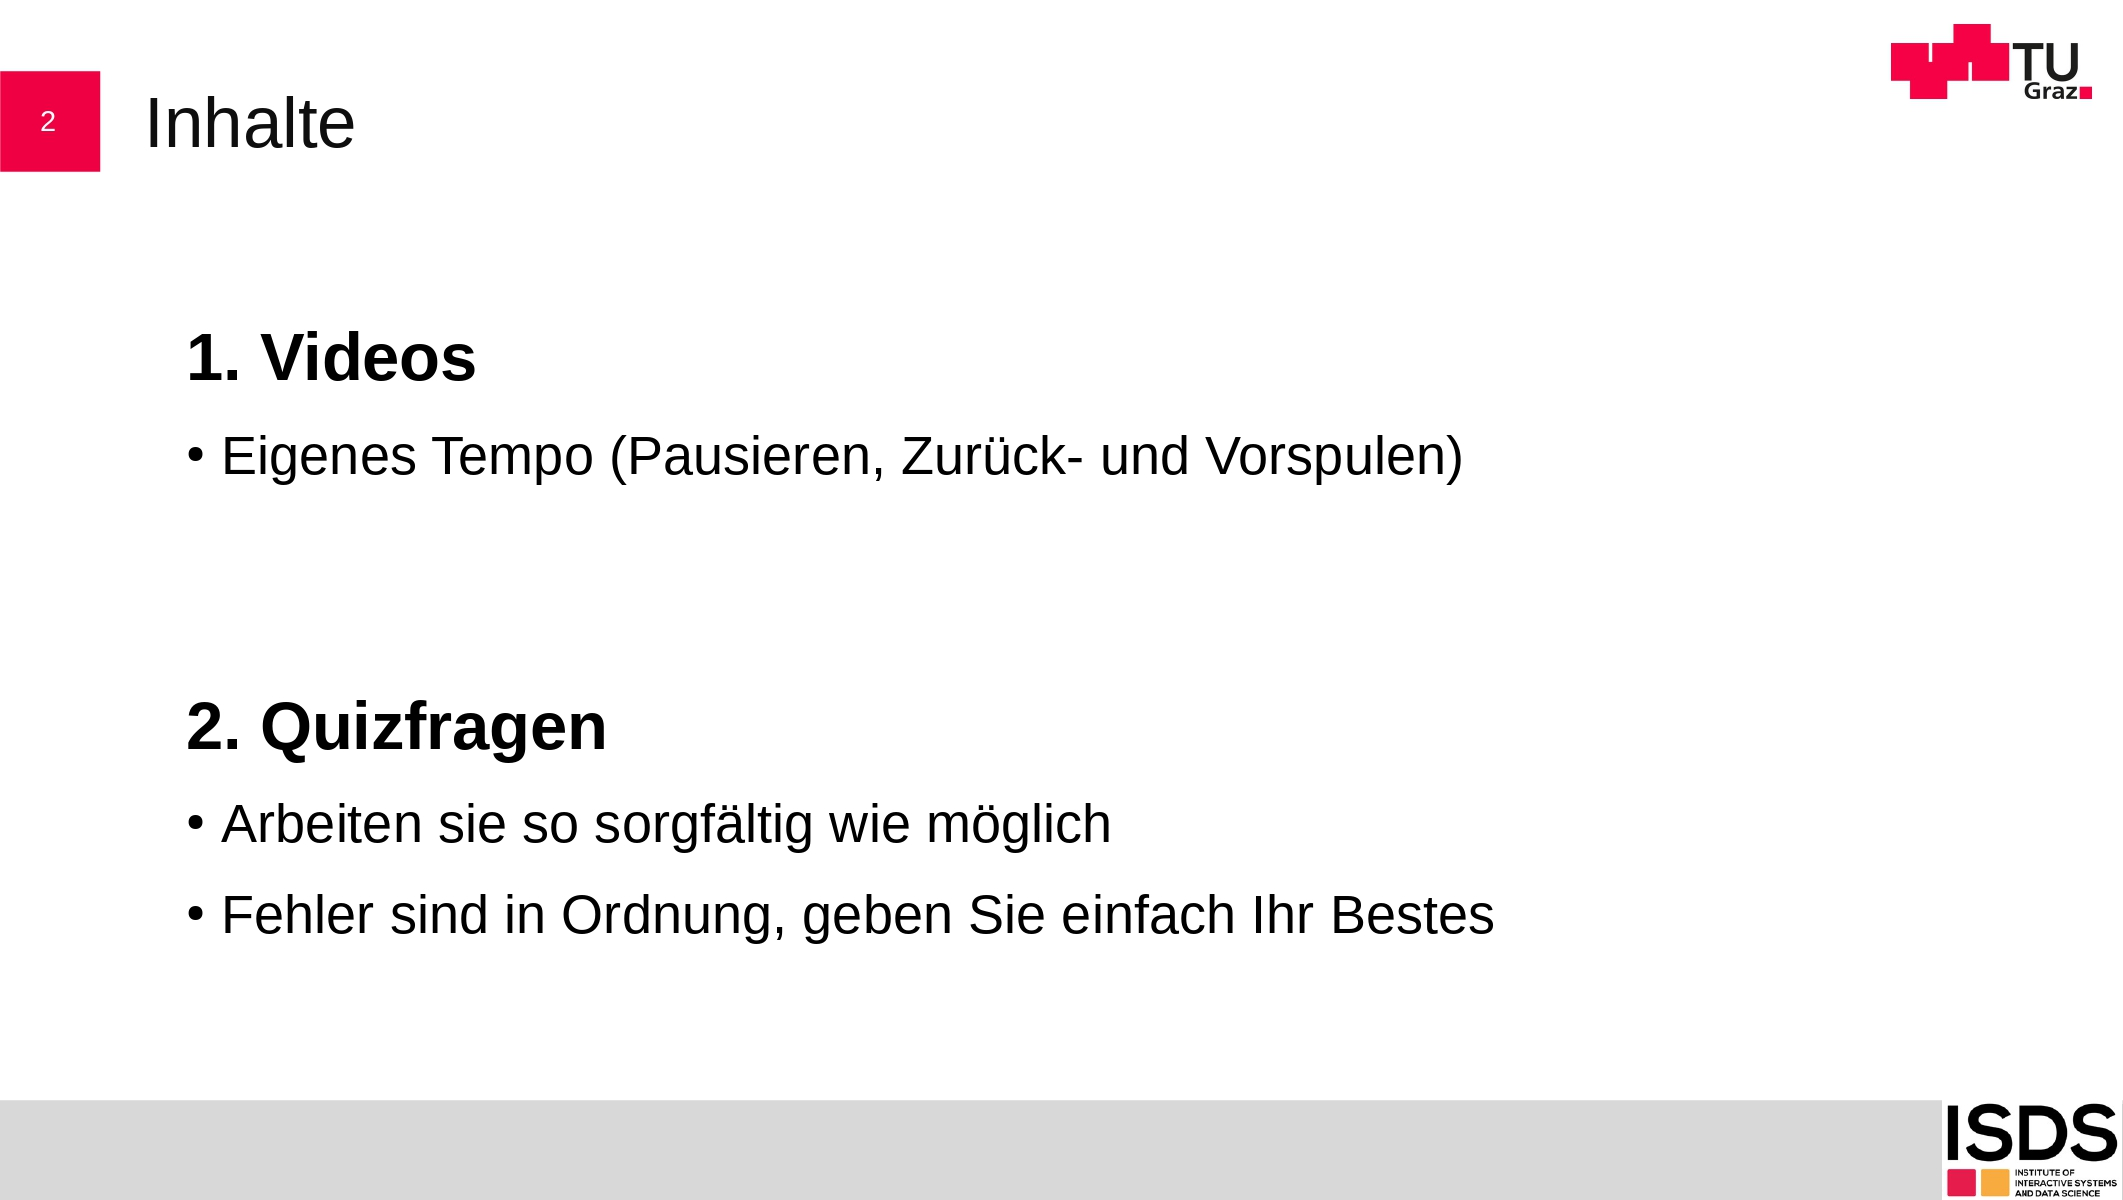
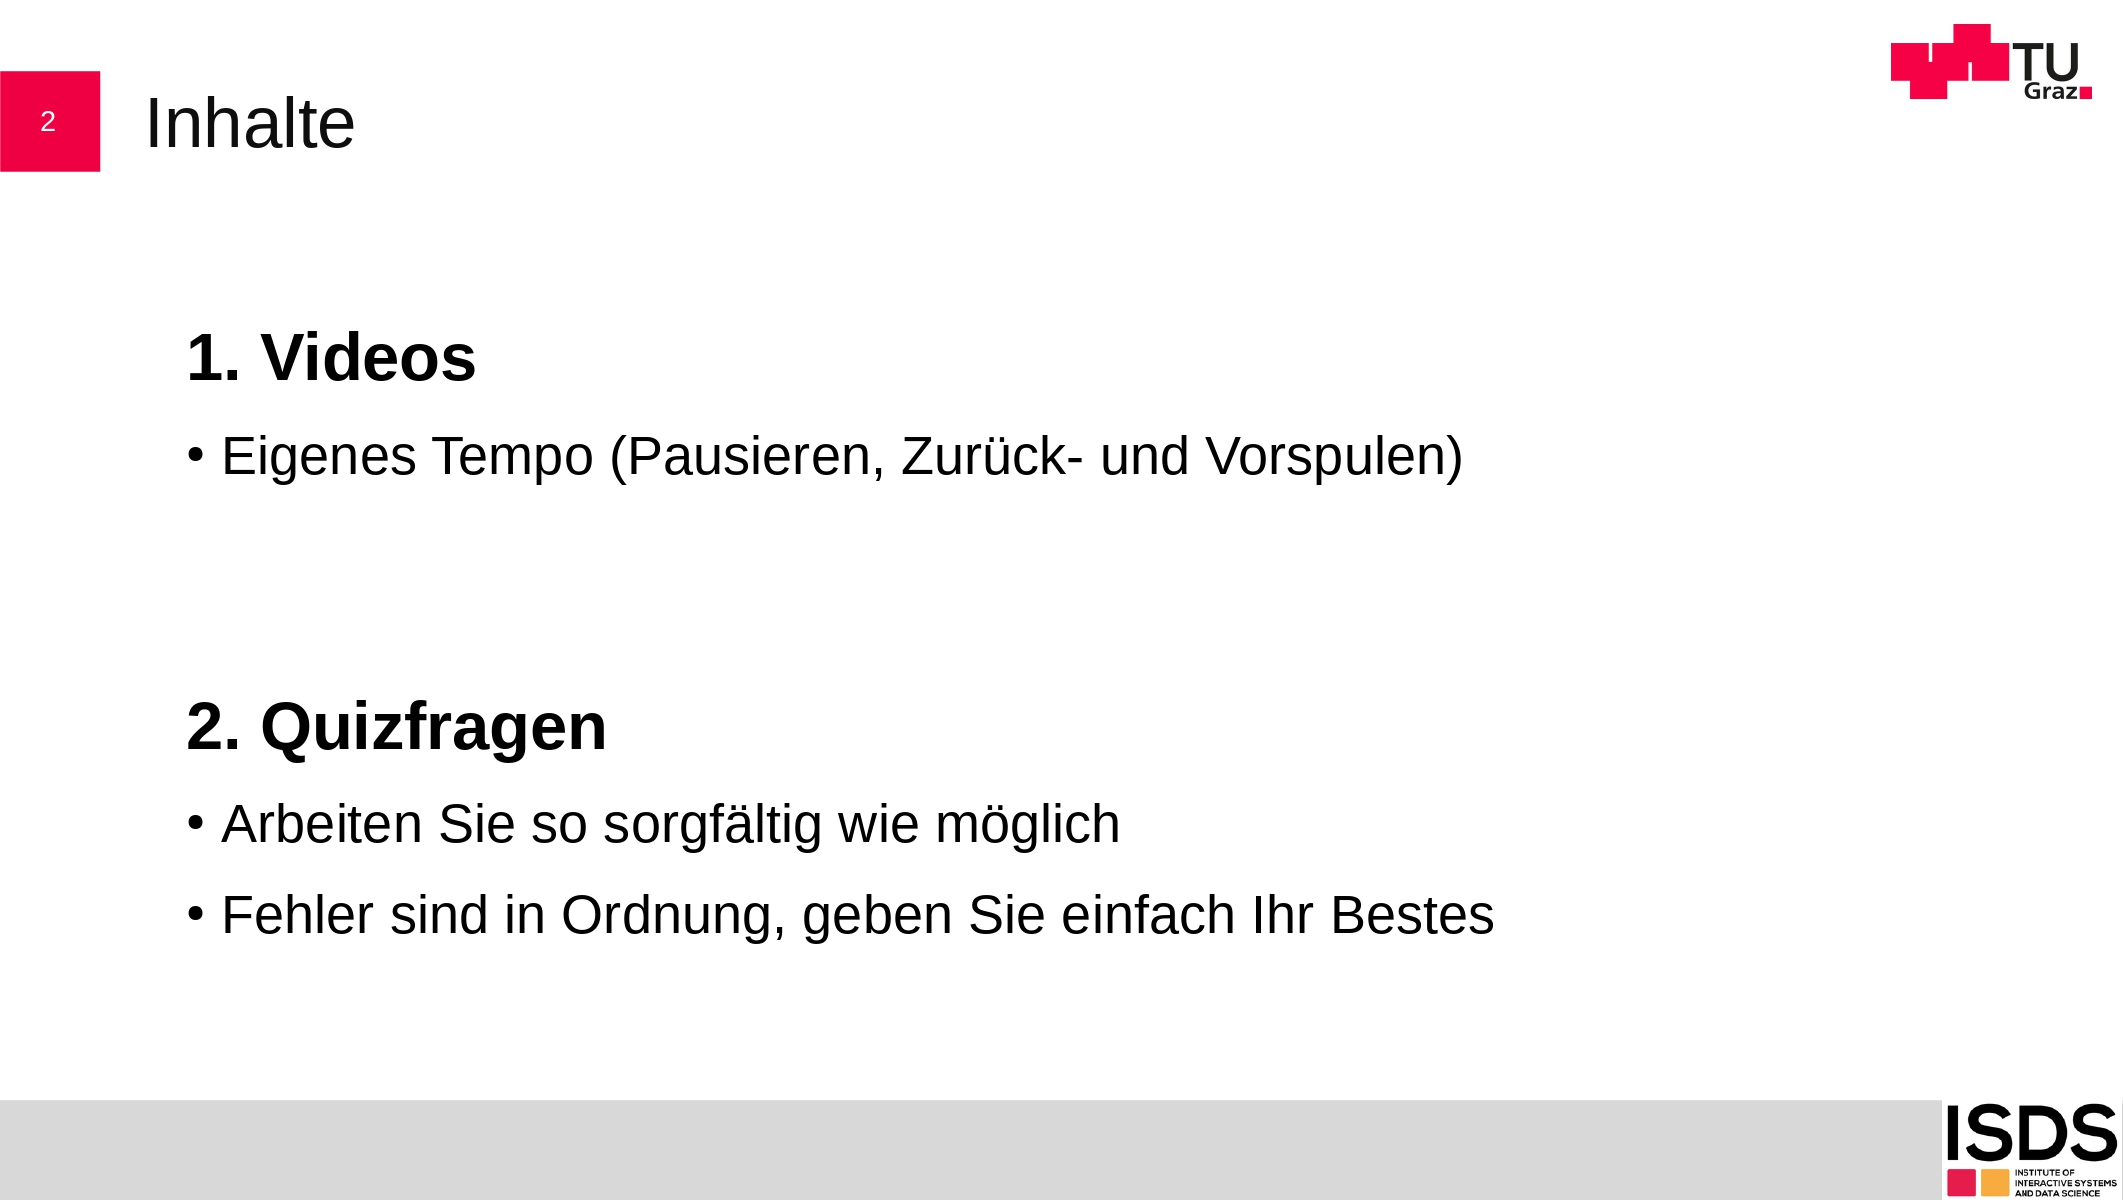
fix typo in instuction video, update todo

Changed region(s): [[0.1865, 0.6475, 0.5285, 0.7092]]

diff --git a/microlearning-adhd-app/backend/app/config.py b/microlearning-adhd-app/backend/app/config.py
@@ -123,5 +123,5 @@ ERROR_NAIVE_TIMESTAMP_WRITE = "Naive timestamp write detected. Use UTC-aware tim
 
 # Video Filenames
 CONTROL_VIDEO_FILENAME = "video-full-v1.mp4"
-INSTRUCTION_VIDEO_FILENAME = "video-instructions-v1.mp4"
+INSTRUCTION_VIDEO_FILENAME = "video-instructions-v2.mp4"
 EXPERIMENTAL_VIDEO_FILENAME_TEMPLATE = "video{index}.mp4"

diff --git a/microlearning-adhd-app/docs/TODO.md b/microlearning-adhd-app/docs/TODO.md
@@ -2,8 +2,6 @@
 
 ## Next Up
 
-- [ ] Edit instruction video, fix typo ("sie" -> "Sie")
-
 ## Nice to have
 
 - [ ] Redesign demographics questionnaire on frontend since it is now longer
